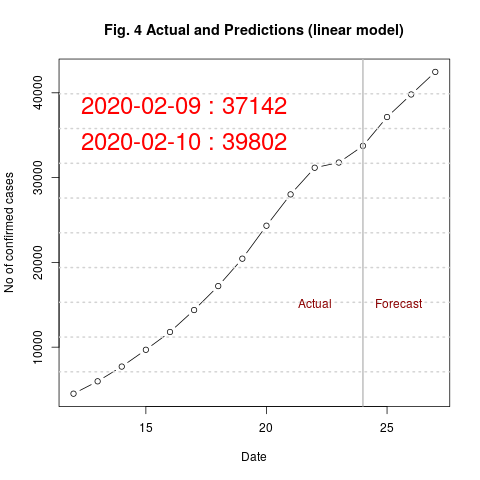
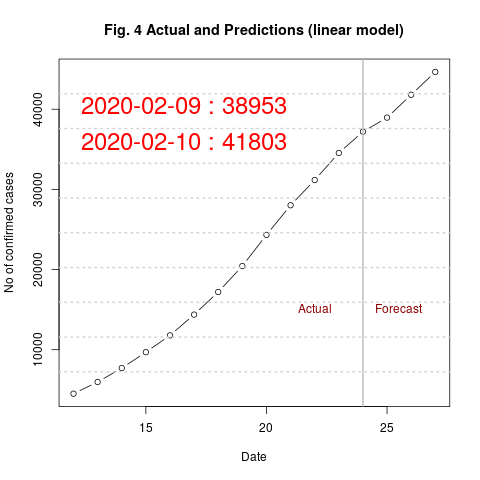
feb8 update

diff --git a/README.md b/README.md
@@ -1,8 +1,8 @@
 # Wuhan Coronavirus Epidemic
 
-![predict1](linear-prediction.png)
+![predict1](latest-prediction.png)
 
-| Date       | Actual | Predict | Delta | % |
+| Date       | Actual | Predict | Delta |   %   |
 | -----------|--------|---------|-------|----------|
 | 2020-01-28 | 5,974 |  	6,809 |	-835 |	-13.98 |
 | 2020-01-29 |	7,711 |  	8,884 |	-1,173 |	-15.21 |
@@ -14,10 +14,9 @@
 | 2020-02-04 |	24,324 |	25,815 |	-1,491 |	-6.13 |
 | 2020-02-05 |	28,018 |	30,196 |	-2,178 |	-7.77 |
 | 2020-02-06 |	31,161 |	34,645 |	-3,484 |   -11.18 |
-| 2020-02-07* |	31,774 |	32,191 |	-417   |    -1.31 |
-| 2020-02-08* |	33,738 |	34,762 |	-1,024 |    -3.04 |
+| 2020-02-07 |	34,546 |	38,619 |	-4,073 |   -11.79 |
+| 2020-02-08 |	37,198 |	42,490 |	-5,292 |   -14.23 |
 
-\*Prediction switched to linear model.
 
 #### Update (2/6/2020) 
 Confirmed cases rising much slower than the exponential model predicted. 
